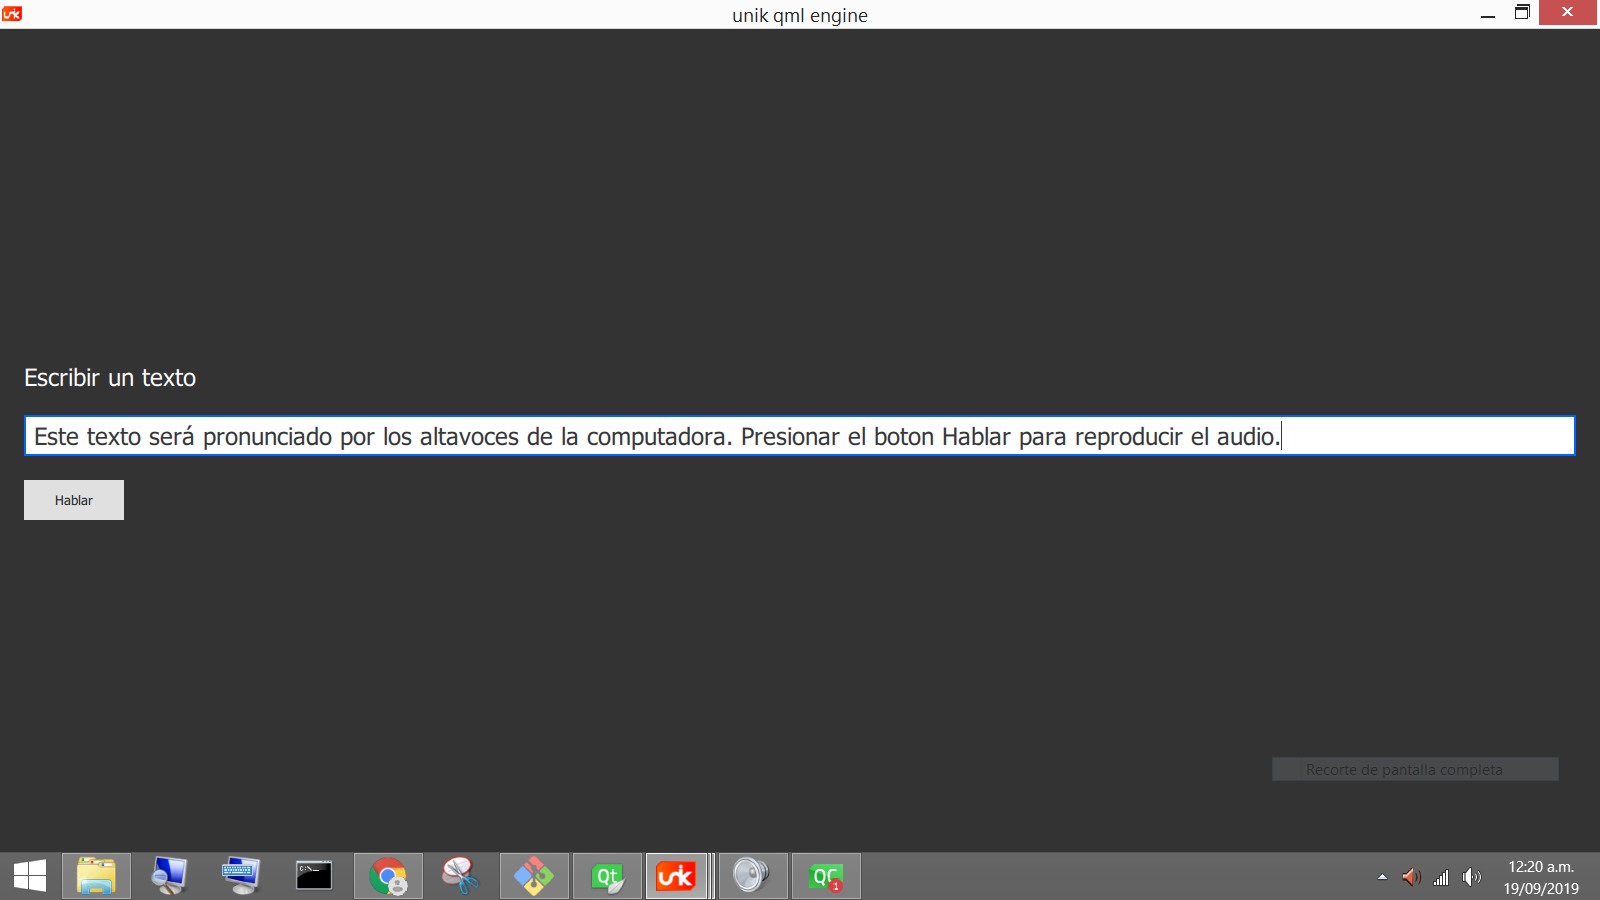
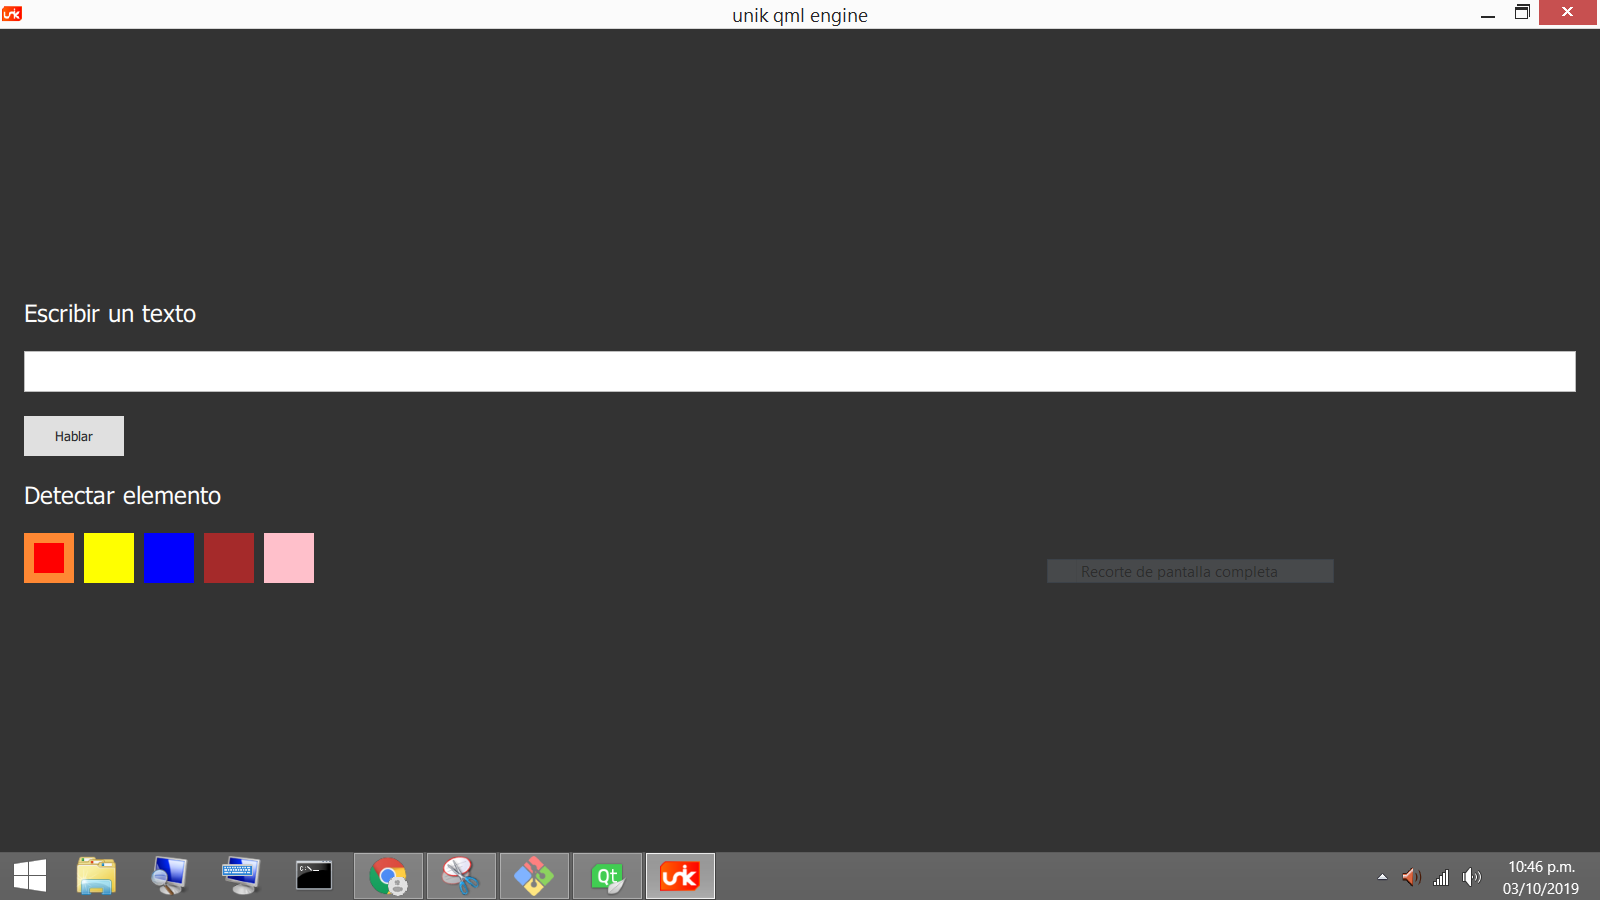
se agregan elementos de color

diff --git a/main.qml b/main.qml
@@ -22,14 +22,55 @@ ApplicationWindow{
                 font.pixelSize: 24
                 width: xApp.width
                 Keys.onReturnPressed: {
-                    speak()
+                    speak(ti.text)
                 }
             }
             Button{
                 text: 'Hablar'
                 onClicked: {
-                        speak()
+                    speak(ti.text)
                 }
+            }
+            Text{
+                text:'Detectar elemento'
+                font.pixelSize: 24
+                color: 'white'
+            }
+            Row{
+                id:row
+                spacing: 10
+                Repeater{
+                    id:rep
+                    model:['red', 'yellow', 'blue', 'brown', 'pink']
+                    property var a: ['rojo', 'amarillo', 'azul', 'marron', 'rosado']
+                    Rectangle{
+                        width: 50
+                        height: 50
+                        color: modelData
+                        border.width: focus?10:0
+                        border.color: "#ff8833"
+                        //focus: true
+                        KeyNavigation.tab: row.children[index+1]
+                        function runVoice(){
+                            timerSpeak.t='Sobre el color '+rep.a[index]
+                            timerSpeak.restart()
+                        }
+                        onFocusChanged: if(focus)runVoice()
+                        MouseArea{
+                            anchors.fill: parent
+                            hoverEnabled: true
+                            onEntered: {
+                                parent.runVoice()
+                                parent.focus=true
+                            }
+                            onClicked: {
+                                parent.runVoice()
+                                parent.focus=true
+                            }
+                        }
+                    }
+                }
+                Component.onCompleted: row.children[0].focus=true
             }
         }
     }
@@ -39,14 +80,24 @@ ApplicationWindow{
         sequence: 'Esc'
         onActivated: Qt.quit()
     }
-    function speak(){
+    Timer{
+        id: timerSpeak
+        running: false
+        repeat: false
+        interval: 2500
+        property string t: ''
+        onTriggered: {
+            speak(t)
+        }
+    }
+    function speak(t){
         var d=new Date(Date.now())
         var f=unik.getPath(2)+'/voice-'+d.getTime()+'.vbs'
-        var s='Dim speaks, speech\n'
-        s+='speaks="'+ti.text+'"\n'
-        s+='Set speech=CreateObject("sapi.spvoice")\n'
-        s+='speech.Speak speaks\n'
+        var s='Dim speaks, speech\r\n'
+        s+='speaks="'+t+'"\r\n'
+        s+='Set speech=CreateObject("sapi.spvoice")\r\n'
+        s+='speech.Speak speaks\r\n'
         unik.setFile(f,s)
-        unik.ejecutarLineaDeComandoAparte('cmd /c '+f)
+        unik.run('cmd /c '+f)
     }
 }
